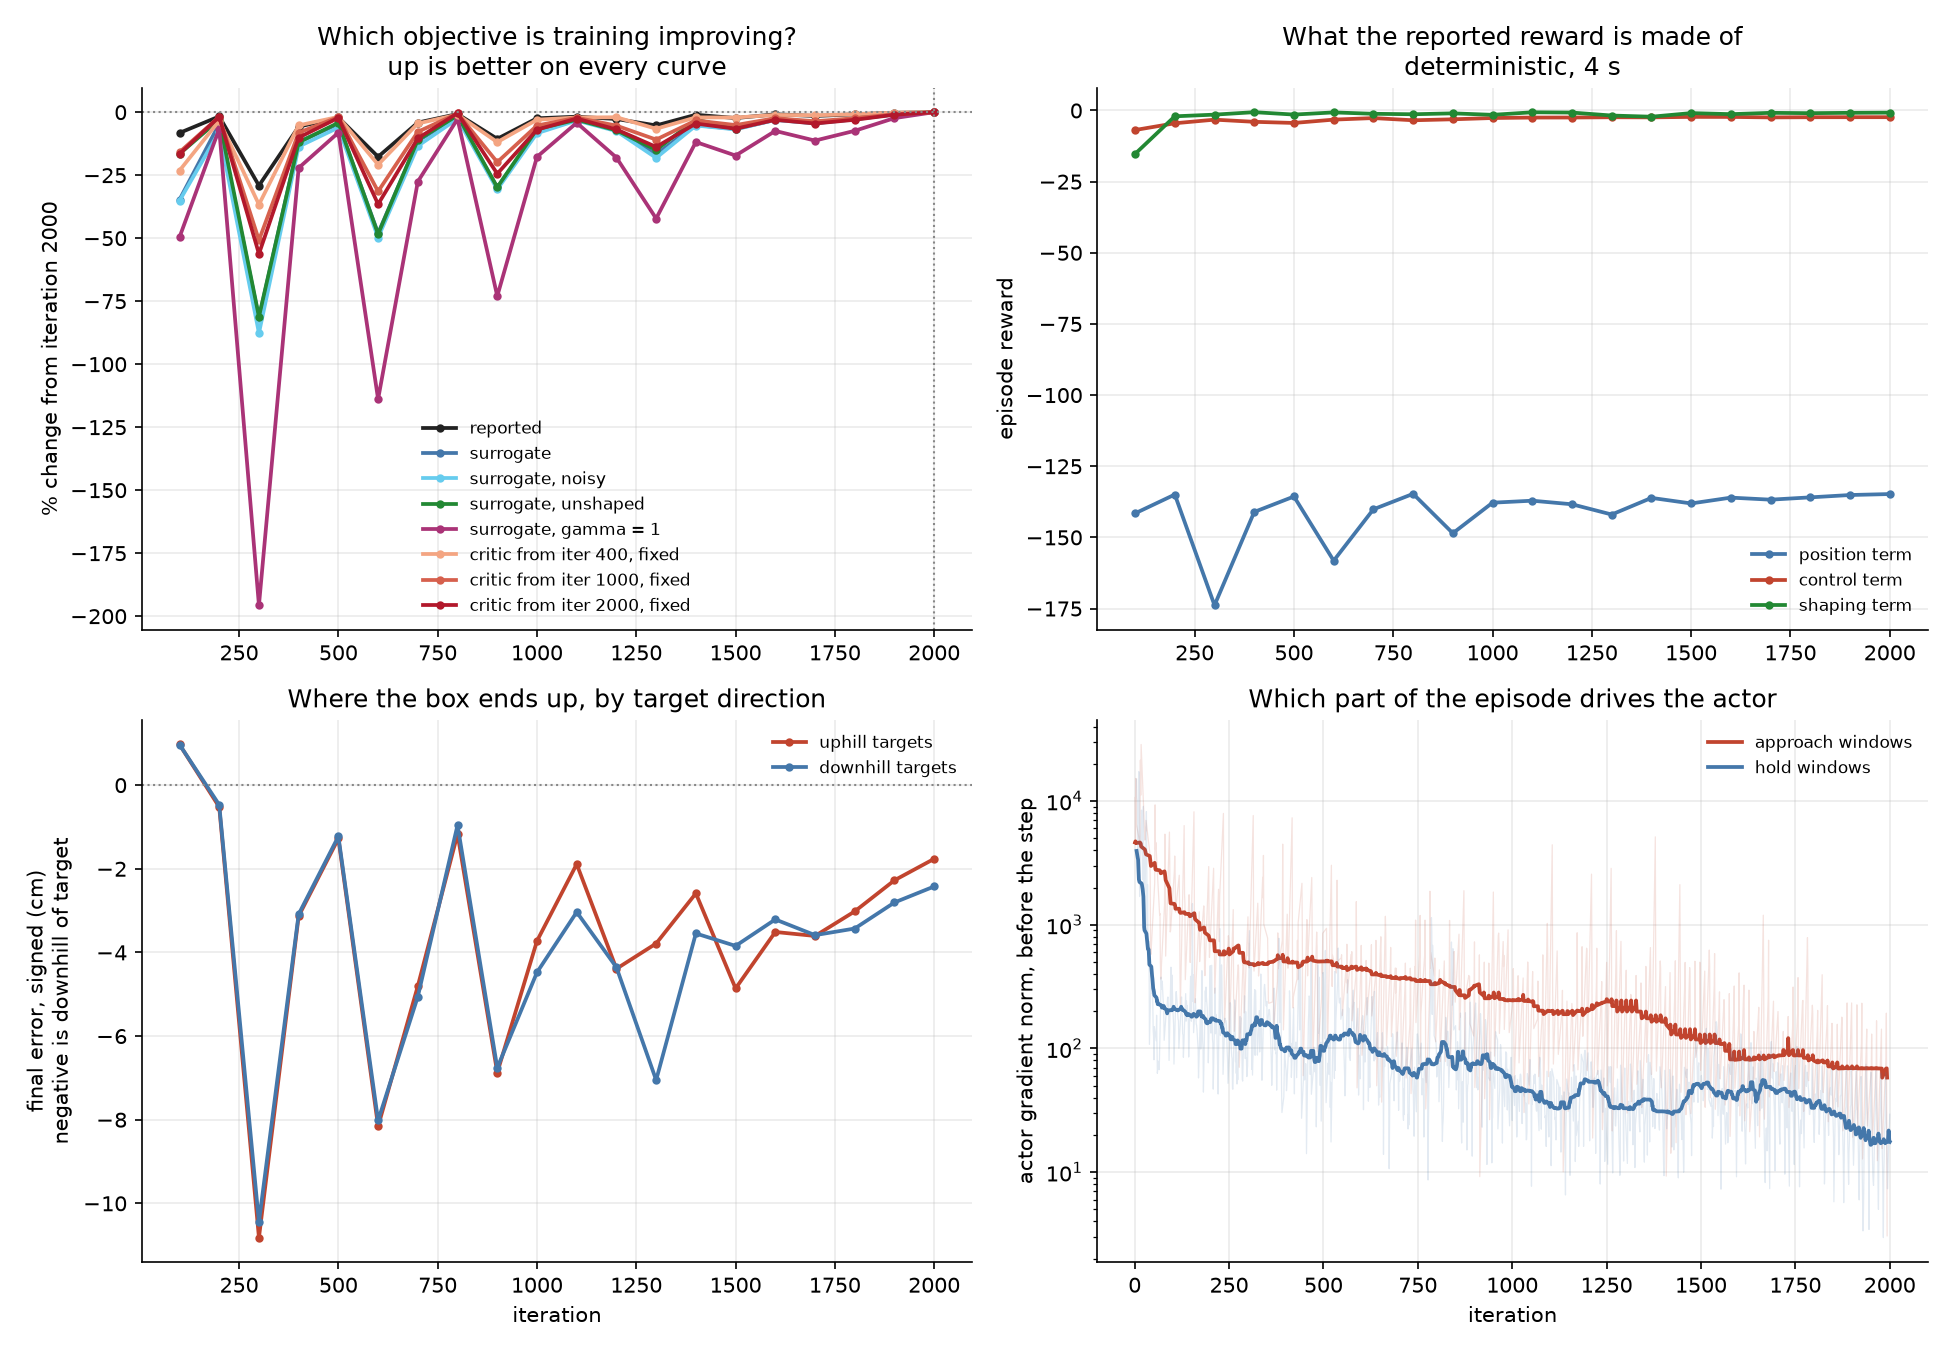
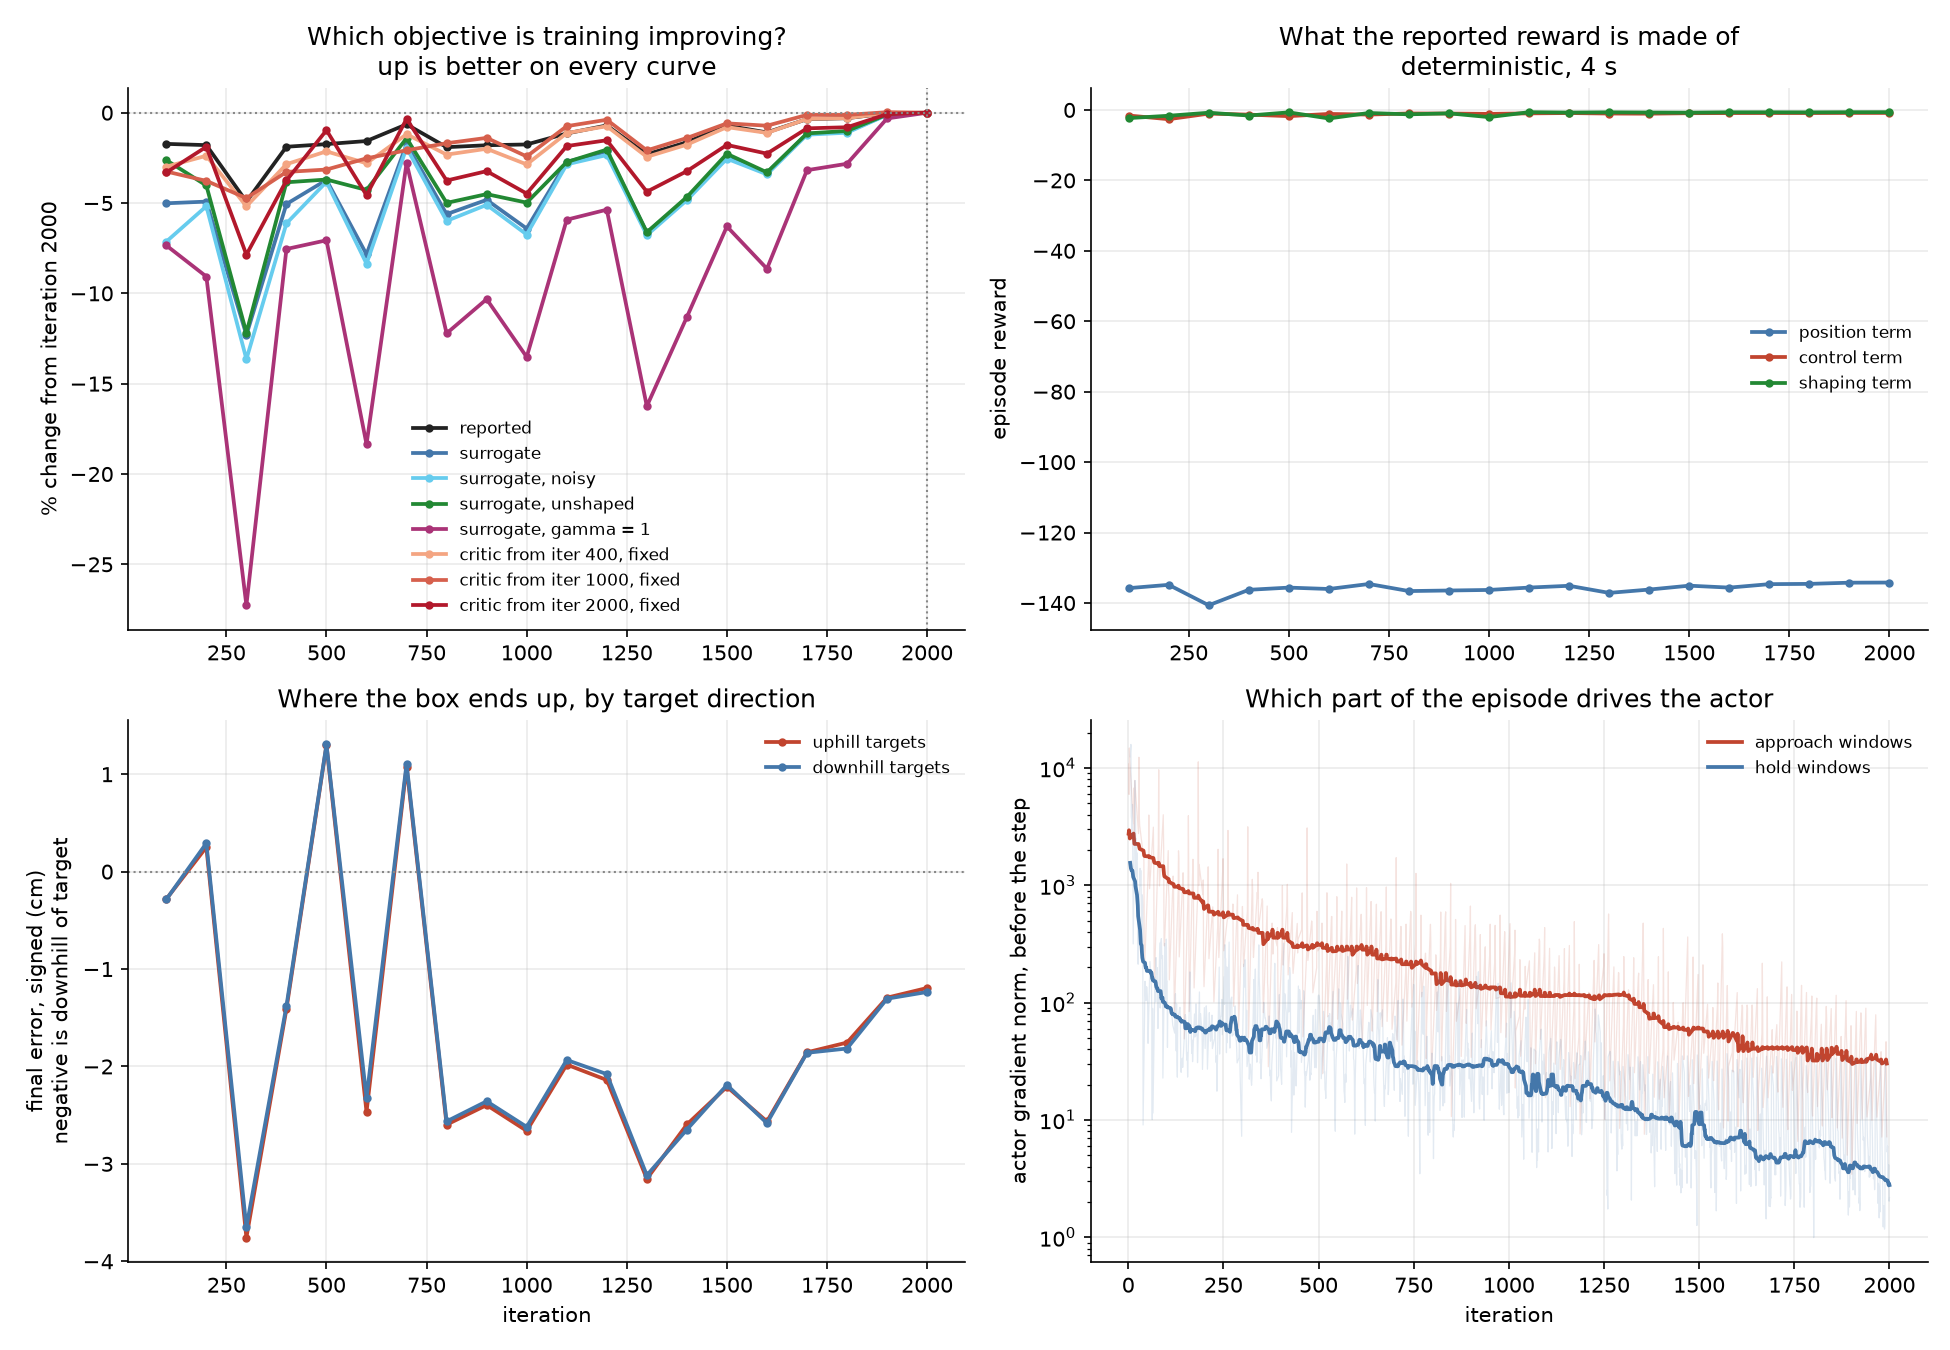
Tighten the position tolerance from 2 cm to 1 cm
The reward's control weight is derived from POSITION_TOLERANCE, the
offset at which holding the box costs as much per step as sitting off
target. At 2 cm, SHAC parked 2-3.5 cm downhill, and 4000 iterations did
not move that. At 1 cm, position is four times dearer relative to force.

Two seeds, 2000 iterations, the 64 diagnosis environments (control term
at the 2 cm weight so the rows compare):

                  parked, up / down targets   holding force   position term
  2 cm, seed 0       -1.76 / -2.42 cm              2.35          -134.77
  2 cm, seed 1       -2.08 / -3.44 cm              1.98          -135.54
  1 cm, seed 0       -1.19 / -1.24 cm              3.38          -134.19
  1 cm, seed 1       -0.93 / -1.10 cm              3.53          -134.01

Halving the tolerance roughly halved the offset, at about 50% more
holding force, and the gap between uphill and downhill targets mostly
closed. check_closed_loop pins its fixture at 2 cm so its 119% does not
move with the task. CLAUDE.md, the README and the task doc record the
setting; trajopt's recorded numbers are marked as measured at 2 cm. The
task doc also drops its references to the deleted demo.
figures/shac_diagnosis.png is now the 1 cm seed-0 run.

diff --git a/slope_control/objective.py b/slope_control/objective.py
@@ -47,10 +47,11 @@ import numpy as np
 from . import ramp, task
 
 # How far off target the policy may sit before it is worth spending the
-# steady holding force to close the gap. Rather under the 4.75 cm that
-# drift.py measures for doing nothing at all, so the controller is being
-# asked for something a released box does not already achieve.
-POSITION_TOLERANCE = 0.02
+# steady holding force to close the gap. Well under the 4.75 cm that
+# drift.py measures for doing nothing at all. At 2 cm, SHAC parked the box
+# 2 to 3.5 cm downhill of its target; 1 cm makes position four times
+# dearer relative to force.
+POSITION_TOLERANCE = 0.01
 
 
 def control_weight(scale, hold_forces, tolerance=POSITION_TOLERANCE):

diff --git a/tests/check_closed_loop.py b/tests/check_closed_loop.py
@@ -48,7 +48,11 @@ TARGET_OFFSET = 0.3
 BODIES = [ramp.BOX]
 SCALE = 12.0
 LIMIT = 12.0
-WEIGHTS = dict(position=1.0, control=objective.control_weight(SCALE, [ramp.hold_force(ramp.DEFAULT_RAMP_ANGLE)]))
+
+# Pinned at the 2 cm tolerance the recorded percentages were measured
+# against. The task's own tolerance can change without moving this fixture.
+TOLERANCE = 0.02
+WEIGHTS = dict(position=1.0, control=objective.control_weight(SCALE, [ramp.hold_force(ramp.DEFAULT_RAMP_ANGLE)], tolerance=TOLERANCE))
 
 
 def fixture(angles, offset=TARGET_OFFSET):

diff --git a/CLAUDE.md b/CLAUDE.md
@@ -77,7 +77,9 @@ the reward is solvable and its gradients navigable, and 800 iterations
 answers that. **Its numbers are not converged**, and the check's own
 "ended at its best: yes" line means *still improving* — the opposite of
 the reassurance it reads as. So do not read −82.37 as the optimum, and do
-not gate anything on beating it. Running it longer keeps improving the
+not gate anything on beating it. Its recorded numbers were measured at the
+2 cm position tolerance, before it moved to 1 cm; `3094234` reproduces
+them. Running it longer keeps improving the
 reward and walks the parked position further downhill of the target; that
 was measured on the box-only variant before it was removed, so there is no
 table of it here any more.
@@ -85,8 +87,9 @@ table of it here any more.
 **Trajopt parks downhill of the target**, at +0.76 / −0.09 / −0.32 cm
 across the sampled slopes. Closing the last centimetres needs force above
 `break_free_force`, which costs more per step than the position error it
-saves. SHAC on the reference configuration also parks about 2 cm
-downhill and holds there. SHAC on the old configuration drifting further
+saves. SHAC on the reference configuration also parks downhill and holds
+there — about 1 cm at the current 1 cm tolerance, 2–3.5 cm at the old
+2 cm one. SHAC on the old configuration drifting further
 downhill the longer it trained was a different thing — the optimization,
 not the reward. The standing reminder has both. Do not read them as one
 finding.
@@ -191,9 +194,9 @@ python experiments/drift.py
   departs at 19°, 48% low at 26°
 
 python experiments/diagnose_shac.py  [--seed 1]
-  reference SHAC, 2000 iterations: in both seeds the last checkpoint is the best
-  seed 0: reported -137.12, hold -0.97 over 1-4 s, parked -1.76 / -2.42 cm (uphill / downhill targets)
-  seed 1: reported -137.51, hold -1.43 over 1-4 s, parked -2.08 / -3.44 cm
+  reference SHAC, 2000 iterations, 1 cm position tolerance
+  seed 0: reported -135.04, hold -0.46 over 1-4 s, parked -1.19 / -1.24 cm (uphill / downhill targets)
+  seed 1: reported -134.90, hold -0.46 over 1-4 s, parked -0.93 / -1.10 cm
   on 64 environments nothing was selected on
 ```
 
@@ -230,14 +233,14 @@ so a session knows where it is.
 5. **Done.** SHAC on penalty — `slope_control/shac.py`, built on the
    per-step adjoint sweep in `sweep.policy_gradient`, run by
    `experiments/train_shac.py`, configured as NVlabs/DiffRL's Ant and
-   Cheetah runs, **2000 iterations**. It learns the approach and holds,
-   repeatably across two seeds, parking about 2 cm downhill of uphill
-   targets and 2.5–3.5 cm of downhill ones. The old configuration lost its
-   best policy after iteration 400; the critic was the cause, and moving
-   to the reference configuration fixed it. Doubling to 4000 iterations
-   bought about 0.35 reward and no change in where the box parks. The
-   demo was removed because its framing assumed creep was the limit; it
-   gets rebuilt next.
+   Cheetah runs, **2000 iterations**, **1 cm position tolerance**. It
+   learns the approach and holds, repeatably across two seeds, parking
+   about 1 cm downhill of its target. The old configuration lost its best
+   policy after iteration 400; the critic was the cause, and moving to the
+   reference configuration fixed it. Doubling to 4000 iterations did not
+   move where the box parks; halving the tolerance from 2 cm roughly
+   halved the offset. The demo was removed because its framing assumed
+   creep was the limit; it gets rebuilt next.
 6. Wait for GRIP 2.0, rerun the column, fill in the cross-eval table.
 
 Steps 2–5 need nothing from GRIP that does not already exist. **Do not build
@@ -513,12 +516,43 @@ impossible objective is still correct. When something is checked and still
 doesn't work, suspect the task before the machinery.
 
 **Step 5, SHAC, is done: it trains and holds on the reference
-configuration.** The first section below is what those runs measure. The sections after it are
-the old configuration's history: how it lost its best policy, what drove
-that, and why the configuration changed.
+configuration.** The first section below is the current setting, a 1 cm
+position tolerance. The one after it is the same configuration at the
+old 2 cm tolerance. The sections after those are the old configuration's
+history: how it lost its best policy, what drove that, and why the
+configuration changed.
 
-### THE REFERENCE CONFIGURATION HOLDS
+### THE CURRENT SETTING: 1 cm tolerance
 
+`objective.POSITION_TOLERANCE` went from 2 cm to 1 cm, which makes
+position four times dearer relative to holding force. Two seeds, 2000
+iterations, the same 64 diagnosis environments. The control term is
+shown at the 2 cm weight so the rows compare; reported and hold rewards
+do not compare across tolerances, since the control weight changed:
+
+```
+                  parked, up / down targets   holding force   position term
+  2 cm, seed 0       -1.76 / -2.42 cm              2.35          -134.77
+  2 cm, seed 1       -2.08 / -3.44 cm              1.98          -135.54
+  1 cm, seed 0       -1.19 / -1.24 cm              3.38          -134.19
+  1 cm, seed 1       -0.93 / -1.10 cm              3.53          -134.01
+```
+
+**Halving the tolerance roughly halved the offset**, at about 50% more
+holding force. The gap between uphill and downhill targets mostly
+closed, from 0.7–1.4 cm to under 0.2 cm. That is measured evidence that
+the offset is set by the reward, not by training — two seeds and one
+change, not a proof. The training curve has the same shape as at 2 cm:
+the error wanders early and settles from about iteration 1700. Seed 0's
+last checkpoint is its best; seed 1's best is iteration 1700,
+indistinguishable from its last.
+
+`tests/check_closed_loop.py` pins its own fixture at 2 cm, so its 119%
+does not move with the task's tolerance.
+
+### THE REFERENCE CONFIGURATION HOLDS — at the old 2 cm tolerance
+
+Measured at `3094234`, before the tolerance moved to 1 cm.
 `experiments/diagnose_shac.py` on the reference configuration, seed 0,
 2000 iterations, every checkpoint scored on the same 64 environments as
 the old run:
@@ -554,7 +588,7 @@ not visible.
 throughout, so this is a steady offset, not drift. The control weight is
 set so that holding costs as much as sitting 2 cm off
 (`POSITION_TOLERANCE`), so 2 cm is roughly where the reward balances
-the two. Inferred, not measured.
+the two. The 1 cm runs above back this up.
 
 **A second seed lands in the same place.** Seed 1, same setup:
 

diff --git a/docs/ramp_manipulation_task.md b/docs/ramp_manipulation_task.md
@@ -302,7 +302,8 @@ enough to reach any target and brake.
 ### What the solved trajectory looks like
 
 `tests/check_trajopt.py` optimizes the raw 400-step control sequence with
-Adam, from a **zero** initialization and a 5 cm approach gap:
+Adam, from a **zero** initialization and a 5 cm approach gap. Measured at
+the 2 cm tolerance, reproducible at `3094234`:
 
 ```
    final error, 15 / 20 / 22 deg        unshaped reward
@@ -335,9 +336,7 @@ and a number there would be invented rather than derived.
 
 **That endgame is penalty contact only.** Below the friction bound a rigid
 body does not move at all, so under an NCP solve the creep regime does not
-exist and the last millimetre has to be closed some other way. It turned up
-here before any policy was trained, and the trained policy later ran into
-the same wall.
+exist and the last millimetre has to be closed some other way.
 
 **A correction, recorded rather than quietly fixed.** An earlier run
 described the optimizer as using creep as a fine-positioning mechanism,
@@ -356,6 +355,12 @@ the target.
 ```
 r_t = −w_pos·(ξ_box − ξ*)²  −  w_ctrl·‖u_t‖²
 ```
+
+`w_pos = 1` and `w_ctrl` is derived from a position tolerance, currently
+**1 cm**: the weight at which holding the box costs as much per step as
+sitting 1 cm off target. `objective.control_weight` does the arithmetic.
+At 2 cm, the earlier setting, the trained policy parked 2–3.5 cm downhill
+of its target; at 1 cm it parks about 1 cm downhill.
 
 Both terms matter. The control cost is **not** boilerplate: without it,
 "keep pressing forever" costs nothing and is a perfectly good strategy under
@@ -582,11 +587,11 @@ training configuration.**
    Displacement against time: penalty drifts 4.7 cm in 5 s, NCP sits at
    zero, and Coulomb's law says zero. **Done** — `experiments/drift.py`.
 2. **SHAC.** The penalty half is **done** — `experiments/train_shac.py`
-   trains it and `experiments/demo.py` renders it. The NCP half waits on
-   2.0.
+   trains it and `experiments/diagnose_shac.py` measures it. The NCP half
+   waits on 2.0.
 3. **The cross-eval table.** Waits on 2.0; there is nothing to cross yet.
-4. **A demo.** **Done for penalty** — two GIFs, the creep figure, and an
-   interactive page that plays the hold window back in slow motion.
+4. **A demo.** To be rebuilt around the current policy. The first one was
+   removed because its framing assumed penalty creep limited training.
 
 (1) is a measurement against a closed form and stands on its own whatever
 the rest do. The rest are the build, and they are allowed to be modest.

diff --git a/README.md b/README.md
@@ -77,11 +77,14 @@ controls, and measure. The other half of that plot is the same figure with
 a solve in place of a spring.
 
 **What the policy does.** It drives the box to its target and holds it
-there. After 2000 iterations it parks 1.8–2.1 cm downhill of uphill
-targets and 2.4–3.4 cm downhill of downhill ones, across two seeds, on 64
-environments it was never selected on. In both seeds the last checkpoint
-is the best one. Doubling the training to 4000 iterations does not move
-where it parks.
+there. After 2000 iterations it parks about 1 cm downhill of its target —
+0.9 to 1.2 cm across two seeds and both target directions — on 64
+environments it was never selected on.
+
+**What sets that 1 cm.** The reward trades position against holding
+force, and a tolerance says where the two balance. At a 2 cm tolerance
+the box parked 2–3.5 cm off; at 1 cm it parks about 1 cm off, using about
+50% more force. Doubling the training to 4000 iterations moved neither.
 
 **How it got there.** SHAC first ran on a configuration of its own, which
 found a good policy by iteration 400 and then lost it: the box was parked
@@ -95,7 +98,7 @@ both.
 recovers a few times before settling — but it ends in the same place
 whichever seed runs. The demo gets rebuilt next.
 
-![SHAC on the reference configuration, every checkpoint rescored](figures/shac_diagnosis.png)
+![SHAC on the reference configuration at a 1 cm tolerance, every checkpoint rescored](figures/shac_diagnosis.png)
 
 ## Setup
 
